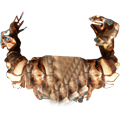
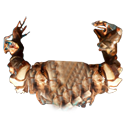
Makes player animation look siqqqq

diff --git a/Player.py b/Player.py
@@ -50,7 +50,7 @@ class Player(WorldEntity):
 		self.MOVE_SPEED = .1
 
 		# animation settings
-		self._animationWalkCycleTime = 0
+		self._animationWalkCycleBlend = 0
 
 		# set up the pygame resources we'll need for our player
 		self._setupPygame()
@@ -69,11 +69,13 @@ class Player(WorldEntity):
 			"gun": pygame.image.load('./img/space_gun.png'),			
 		}
 
+		leadOffset = 0
+
 		# hard coded offsets for the invidual pieces
-		self._headOffset = pygame.Vector2(41, 41)
-		self._torsoOffset = pygame.Vector2(60, 60)
-		self._feetOffset = pygame.Vector2(39, 39)
-		self._gunOffset = pygame.Vector2(19, 19)
+		self._headOffset = pygame.Vector2(41, 41 + leadOffset)
+		self._torsoOffset = pygame.Vector2(60, 60 + leadOffset)
+		self._feetOffset = pygame.Vector2(39, 39 + leadOffset)
+		self._gunOffset = pygame.Vector2(19, 19 + leadOffset)
 
 
 
@@ -84,6 +86,10 @@ class Player(WorldEntity):
 		Args:
 			direction (Number): must be 1 or -1 for left or right, respecitvely
 		"""
+
+		# increase this over time, max out at 10
+		if(self._animationWalkCycleBlend < 10):
+			self._animationWalkCycleBlend = 10
 
 		# adjust our rotation angle
 		self.rot += (direction * self.ROT_SPEED_IN_DEGREES)
@@ -104,9 +110,9 @@ class Player(WorldEntity):
 			direction (Number): either -1 or 1 for backward / forward. Can be scalar
 		"""
 
-		# increase our animation frame
-		# TODO: rethink this animation
-		self._animationWalkCycleTime += 1
+		# increase this over time, max out at 10
+		if(self._animationWalkCycleBlend < 10):
+			self._animationWalkCycleBlend = 10
 
 		# use geometry to determine movement
 		
@@ -196,16 +202,36 @@ class Player(WorldEntity):
 		# find where on screen we should be relative to the camera
 		screenPos = self._scene.camera.getScreenPos(self.pos)
 		
+		# always decrease this over time, till we hit 0
+		if(self._animationWalkCycleBlend > 0):
+			self._animationWalkCycleBlend -= 1
+
+		# normalize walk cycle blend value
+		aniWalkCycleBlendNormalised = (self._animationWalkCycleBlend/10.0)
+
+		# use the games time in miliseconds + 
+		sineTime = pygame.time.get_ticks() * .01
+
+		# calculate rotational offsets for feet, torso and head in degrees
+		feetRotOffset = math.sin(sineTime) * 10 * aniWalkCycleBlendNormalised
+		torsoRotOffset = math.sin(sineTime) * -10 * aniWalkCycleBlendNormalised
+		headRotOffset = math.cos(sineTime) * 7 * aniWalkCycleBlendNormalised +(math.sin(sineTime*0.1) * 5)
+		
+		# we'll also always scale the torso on a mild sine curve to imply breathing
+		torsoScalar = 1.0 + (math.sin(sineTime * 0.17) * 0.05)
+		newTorsoOffset = self._torsoOffset * torsoScalar
+		newSizeVector2 = newTorsoOffset * 2
+		imgTorsoScaled = pygame.transform.scale(self._images["torso"], newSizeVector2)
+
 		# while the gun is rotated facing the same direction as the player
 		# it also needs it's own rotated X/Y offset, so lets calculate that before we draw everying else
-		gunRadius = 60
-		gunRotationFromPlayer = (self.rot + 140) * (math.pi / 180)
+		gunRadius = 60 * torsoScalar
+		gunRotationFromPlayer = (self.rot + torsoRotOffset + 140) * (math.pi / 180)
 		gunPos = screenPos + pygame.Vector2(math.sin(gunRotationFromPlayer) * gunRadius, math.cos(gunRotationFromPlayer) * gunRadius)
 
 		# rotate bit to screen. ORDER MATTERS! bottom-to-top
-		self.blitRotateCenter(self._win, self._images["feet"], screenPos-self._feetOffset, self.rot)
-		self.blitRotateCenter(self._win, self._images["torso"], screenPos-self._torsoOffset, self.rot)
-		self.blitRotateCenter(self._win, self._images["head"], screenPos-self._headOffset, self.rot)
+		self.blitRotateCenter(self._win, self._images["feet"], screenPos-self._feetOffset, self.rot+feetRotOffset)
+		self.blitRotateCenter(self._win, imgTorsoScaled, screenPos-newTorsoOffset, self.rot+torsoRotOffset)
+		self.blitRotateCenter(self._win, self._images["head"], screenPos-self._headOffset, self.rot+headRotOffset)
 		self.blitRotateCenter(self._win, self._images["gun"], gunPos-self._gunOffset, self.rot)
 		
-

diff --git a/SceneGame.py b/SceneGame.py
@@ -85,7 +85,7 @@ class GameScreen(Scene):
 		self.player.checkPlayerInput(recentEvents)
 
 		# move camera to player:
-		self.camera.moveTo(self.player.pos)
+		# self.camera.moveTo(self.player.pos)
 
 
 	# method for rendering scene
